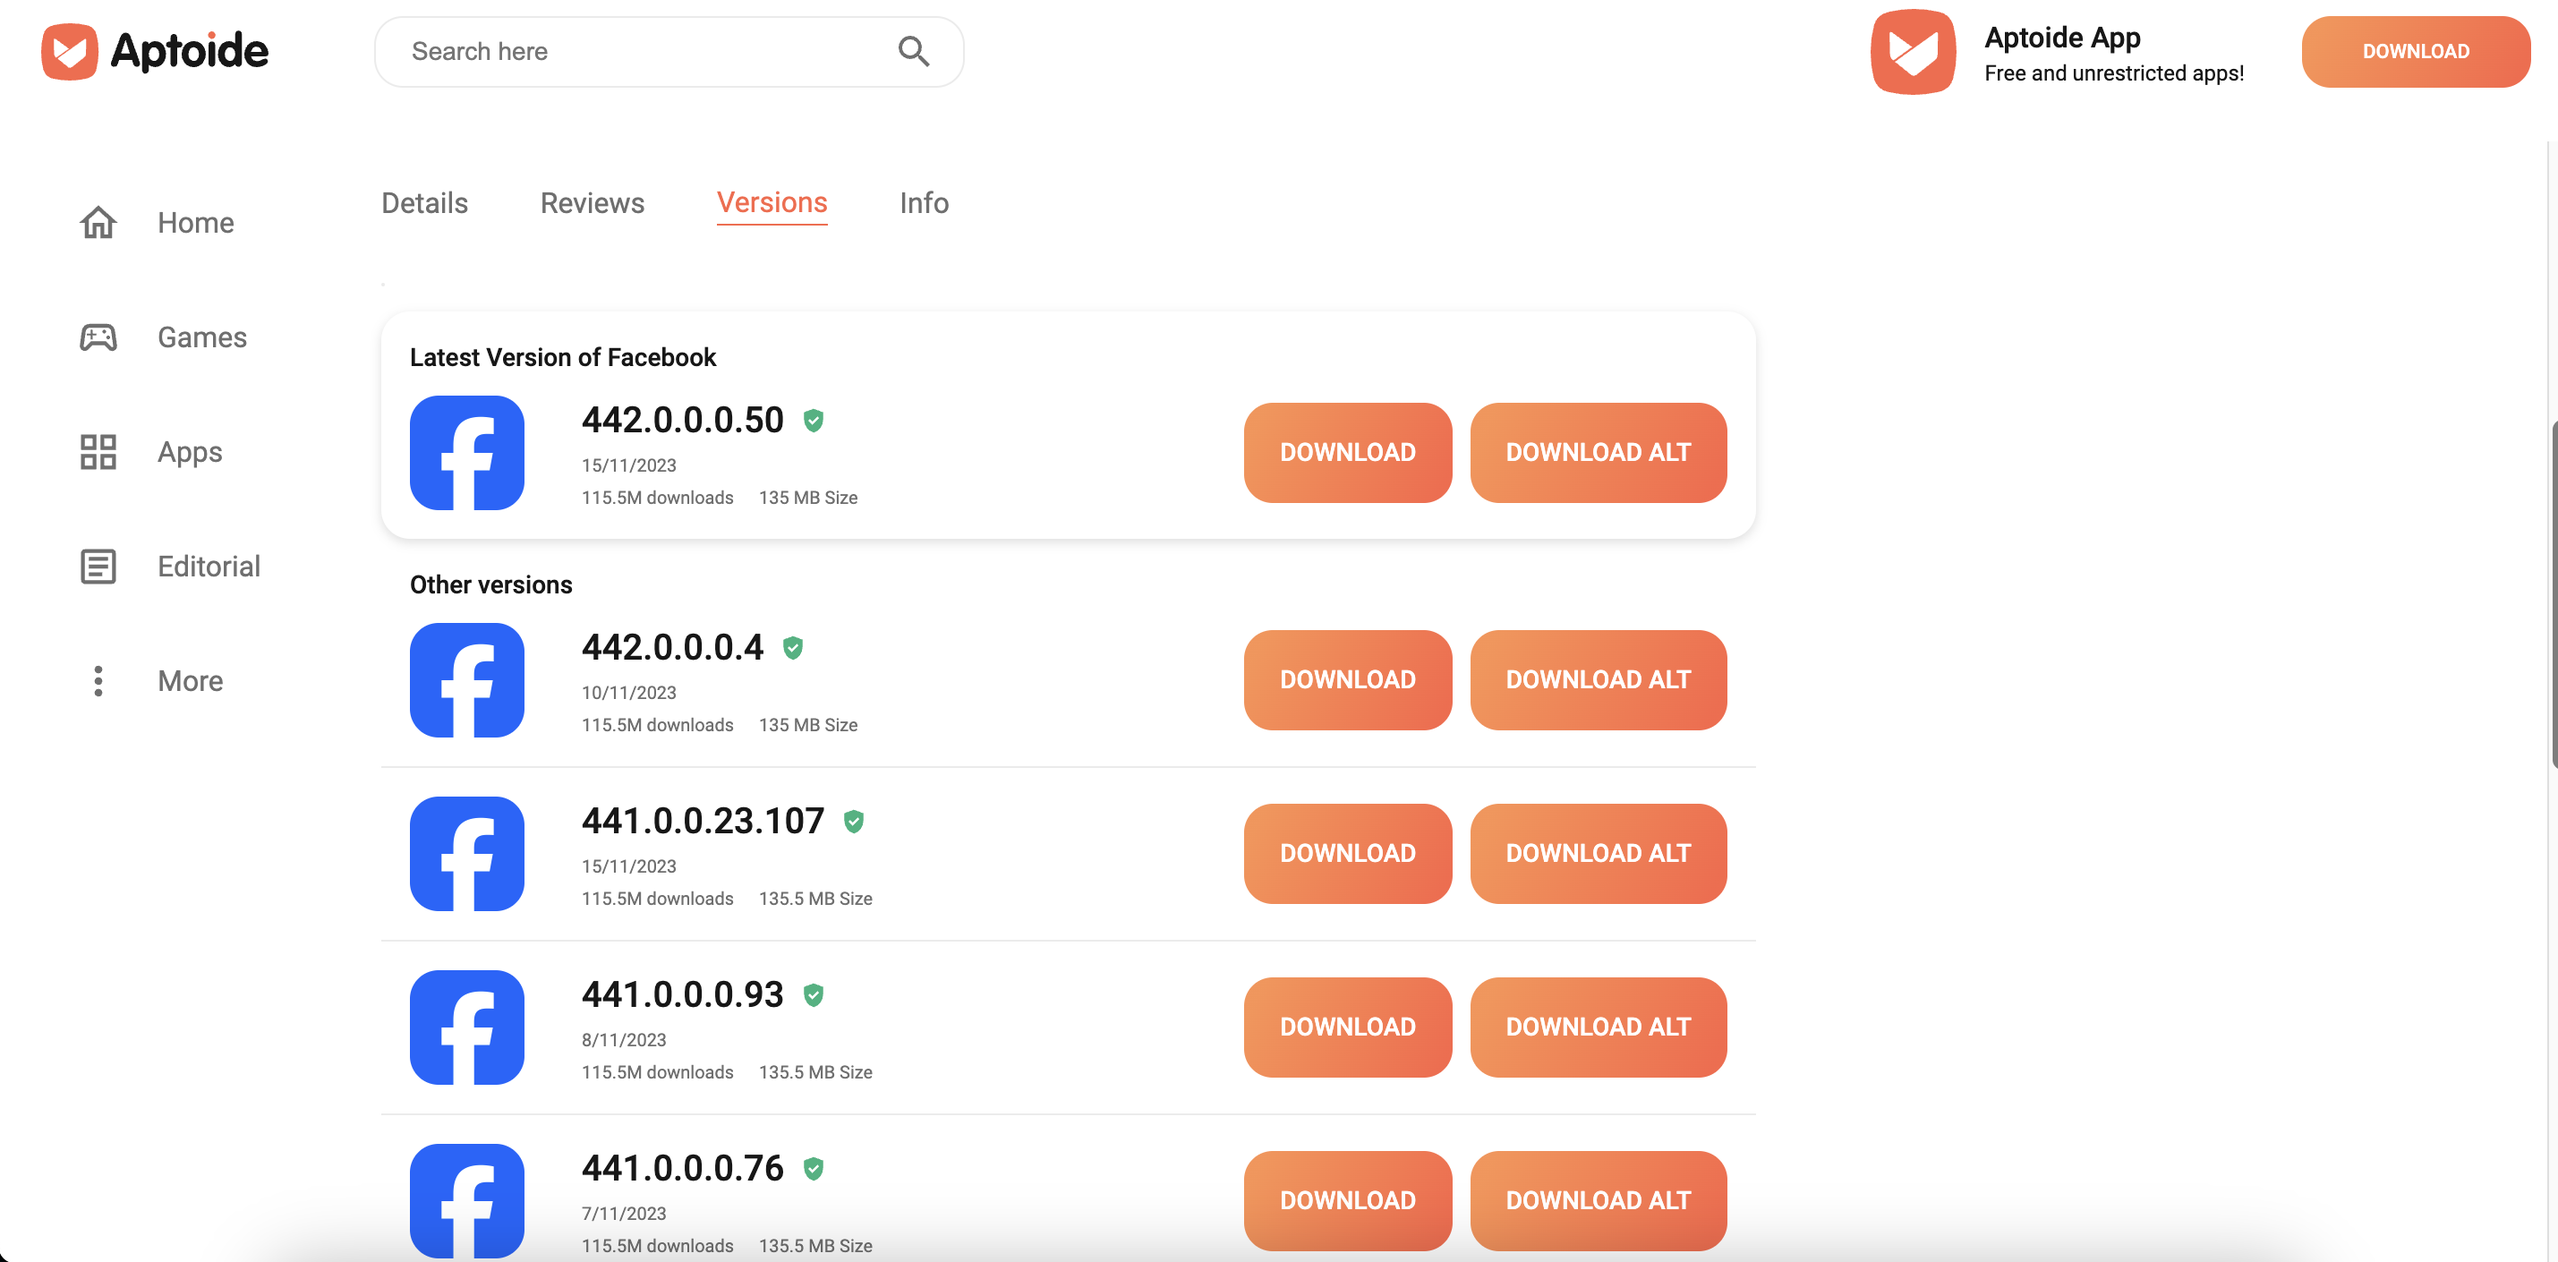
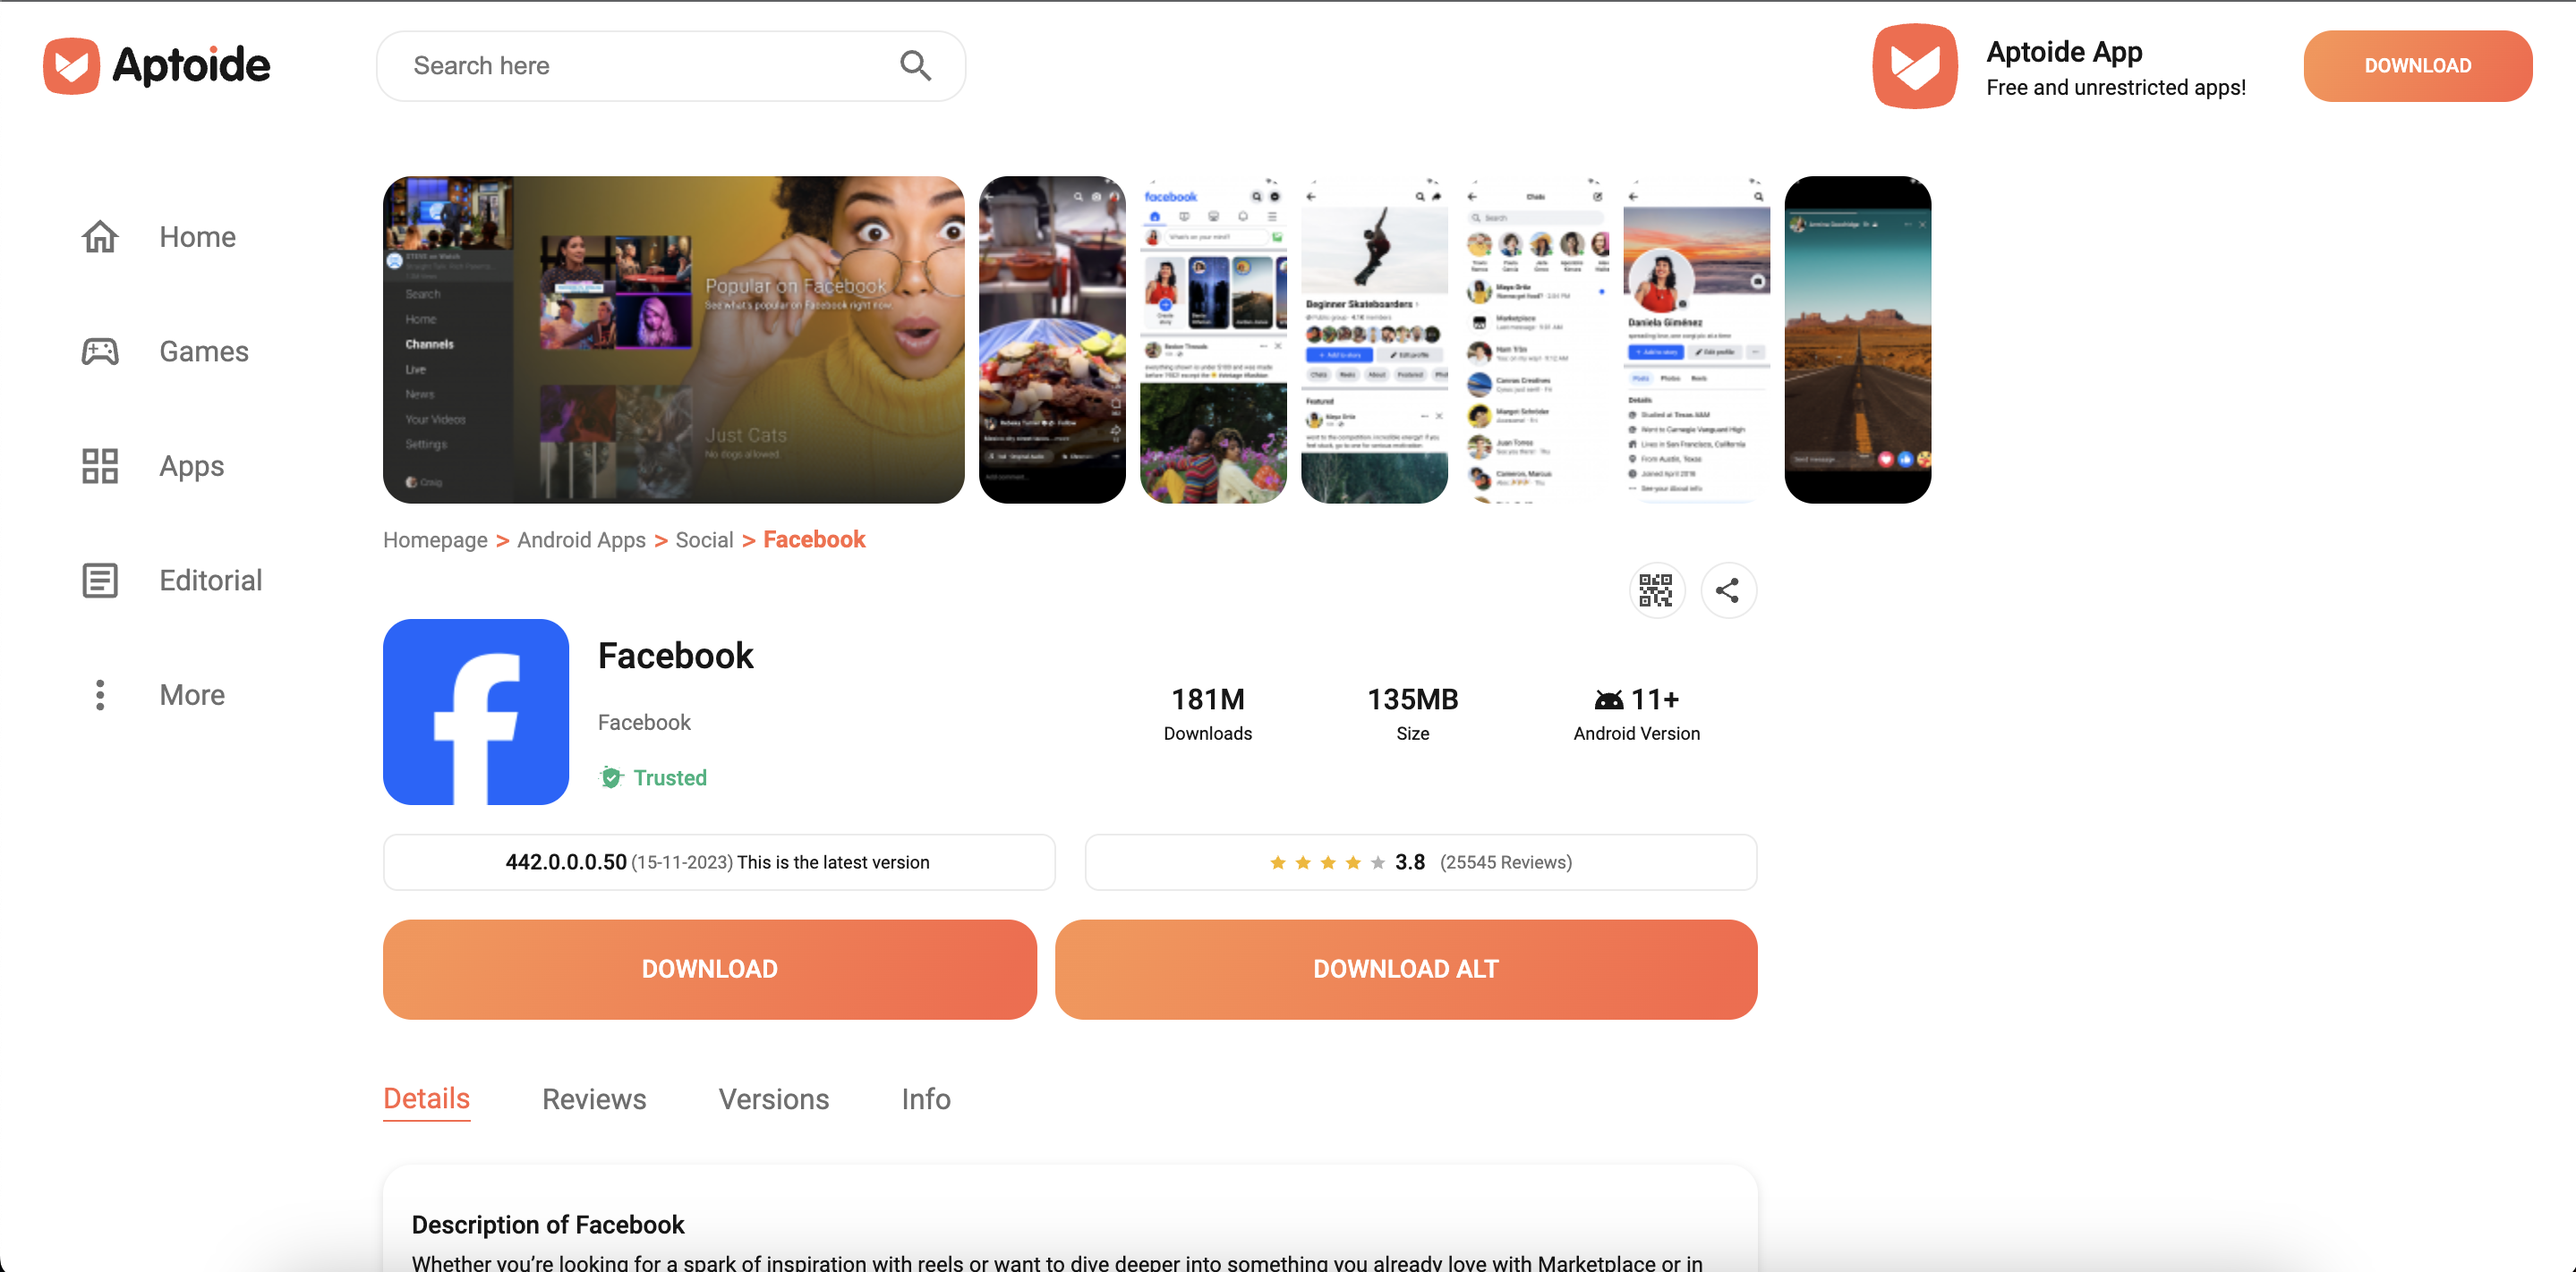
Readme.md updated.

diff --git a/Readme.md b/Readme.md
@@ -1,7 +1,32 @@
 # Aptoide APK Downloader Extension
 
-To allow download APK directly from Aptoide.com to PC/Laptop.
+Download APK directly from Aptoide.com to PC/Laptop.
+
+## Usage
+
+To use this extension, you need to install it from [Chrome Web Store](https://chrome.google.com/webstore/detail/aptoide-apk-downloader/ldgfbffjgjgjgjgjgjgjgjgjgjgjgjg).
+
+There are two ways to download APK from Aptoide.com using this extension.
+
+### Method 1
+
+1. Go to Aptoide.com.
+2. Search for the app you want to download.
+3. Click on the app.
+4. You will see a two download buttons instead of one, which will download the APK directly to your PC/Laptop. See the screenshots below.
+5. Also, on versions list, you will see two download buttons as well for each version.
+6. Enjoy!
+
+### Method 2
+
+1. Click on the extension icon.
+2. Search for the app you want to download.
+3. If the app is found, you will see two download buttons for each app in list.
+4. Click the download button to download the APK directly to your PC/Laptop.
+5. Enjoy!
 
 ## Screenshots
 ![Screenshot 1](design/screenshots/screenshot1.png)
 ![Screenshot 2](design/screenshots/screenshot2.png)
+![Screenshot 3](design/screenshots/screenshot3.png)
+![Screenshot 4](design/screenshots/screenshot4.png)
